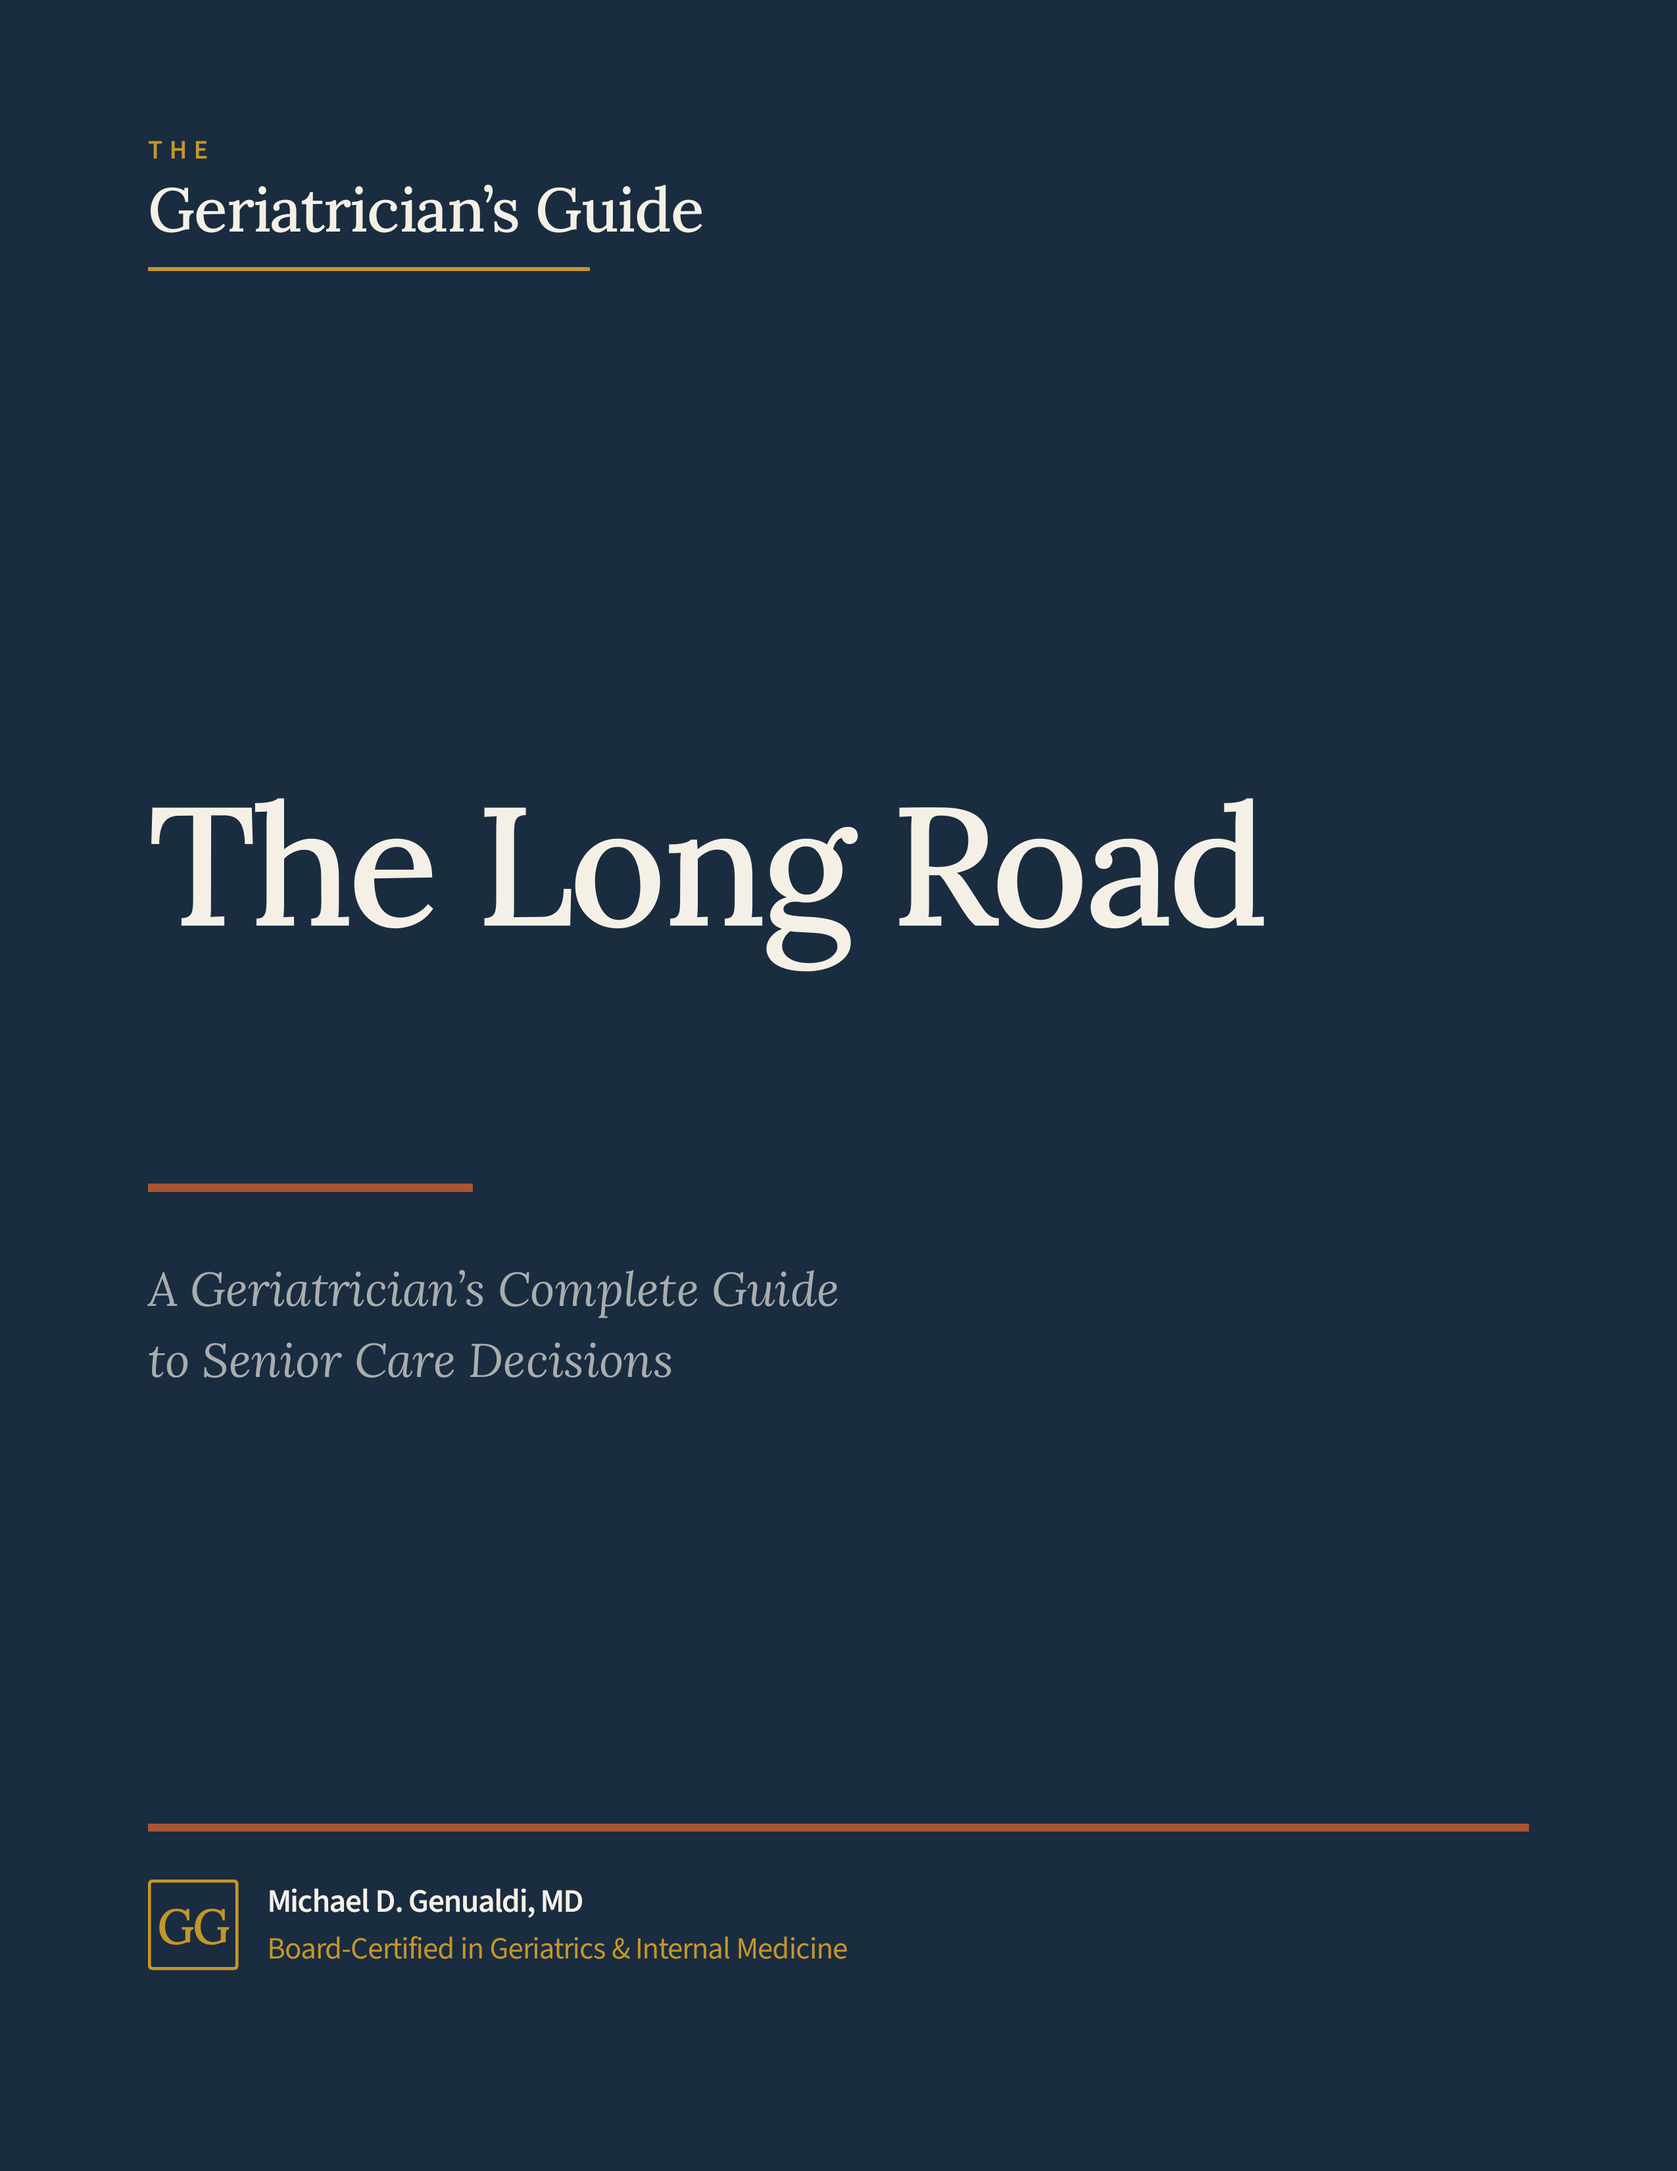
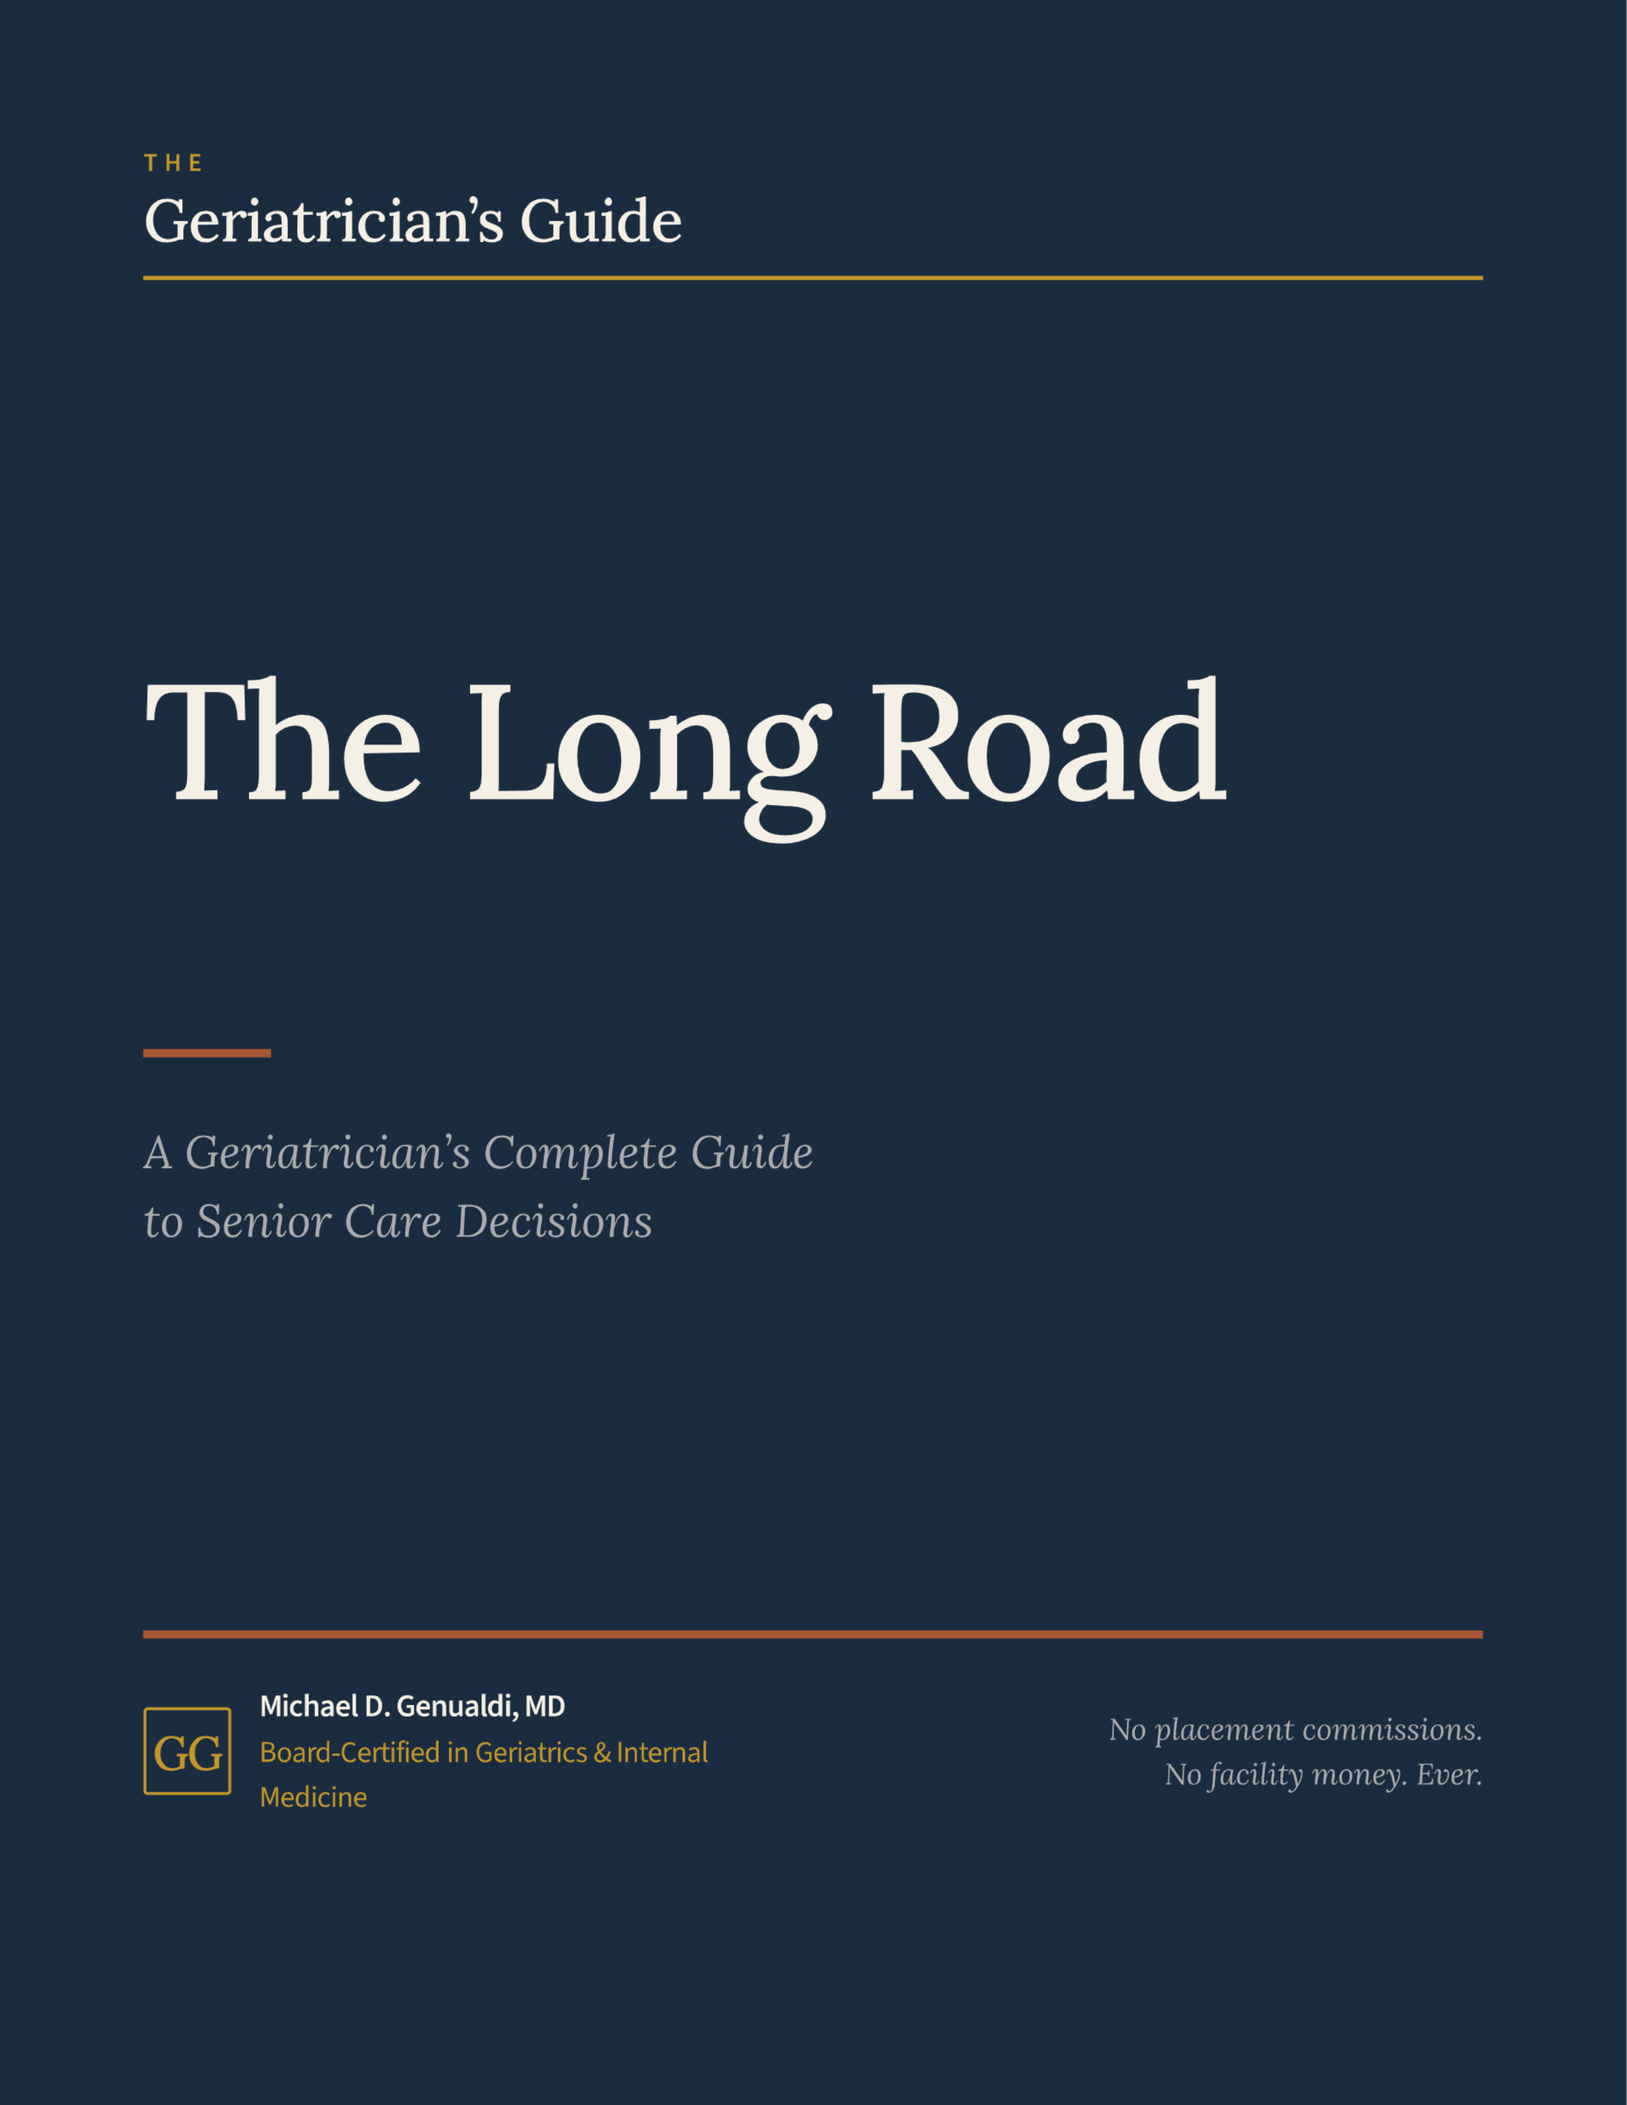
Update from design project

diff --git a/src/styles/is-it-time.css b/src/styles/is-it-time.css
@@ -312,7 +312,10 @@
   .iit { margin: 24px 12px; padding: clamp(24px,6vw,36px) clamp(20px,5vw,28px); }
   .iit-q-head { gap: 14px; }
   .iit-actions { gap: 20px; }
-  .iit-answer-score-label { width: auto; }
+  .iit-answers-list li { display: grid; grid-template-columns: 30px minmax(0,1fr); grid-template-areas: "badge label" "badge body"; column-gap: 14px; row-gap: 4px; }
+  .iit-answer-badge { grid-area: badge; }
+  .iit-answer-score-label { grid-area: label; width: auto; padding-top: 0; align-self: center; min-height: 30px; display: flex; align-items: center; }
+  .iit-answer-body { grid-area: body; }
 }
 
 /* ============================================================

diff --git a/src/styles/global.css b/src/styles/global.css
@@ -257,7 +257,8 @@ main { display: block; }
 }
 @media (max-width: 820px) {
   .hero__inner { grid-template-columns: 1fr; gap: 36px; }
-  .hero__figure { max-width: 320px; }
+  .hero__figure { max-width: 240px; order: -1; justify-self: start; }
+  .hero__inner { padding-top: 48px; }
 }
 .hero__cta-label { margin-bottom: -2px; }
 .hero__cta { margin-top: 34px; display: flex; flex-direction: column; align-items: flex-start; gap: 14px; }
